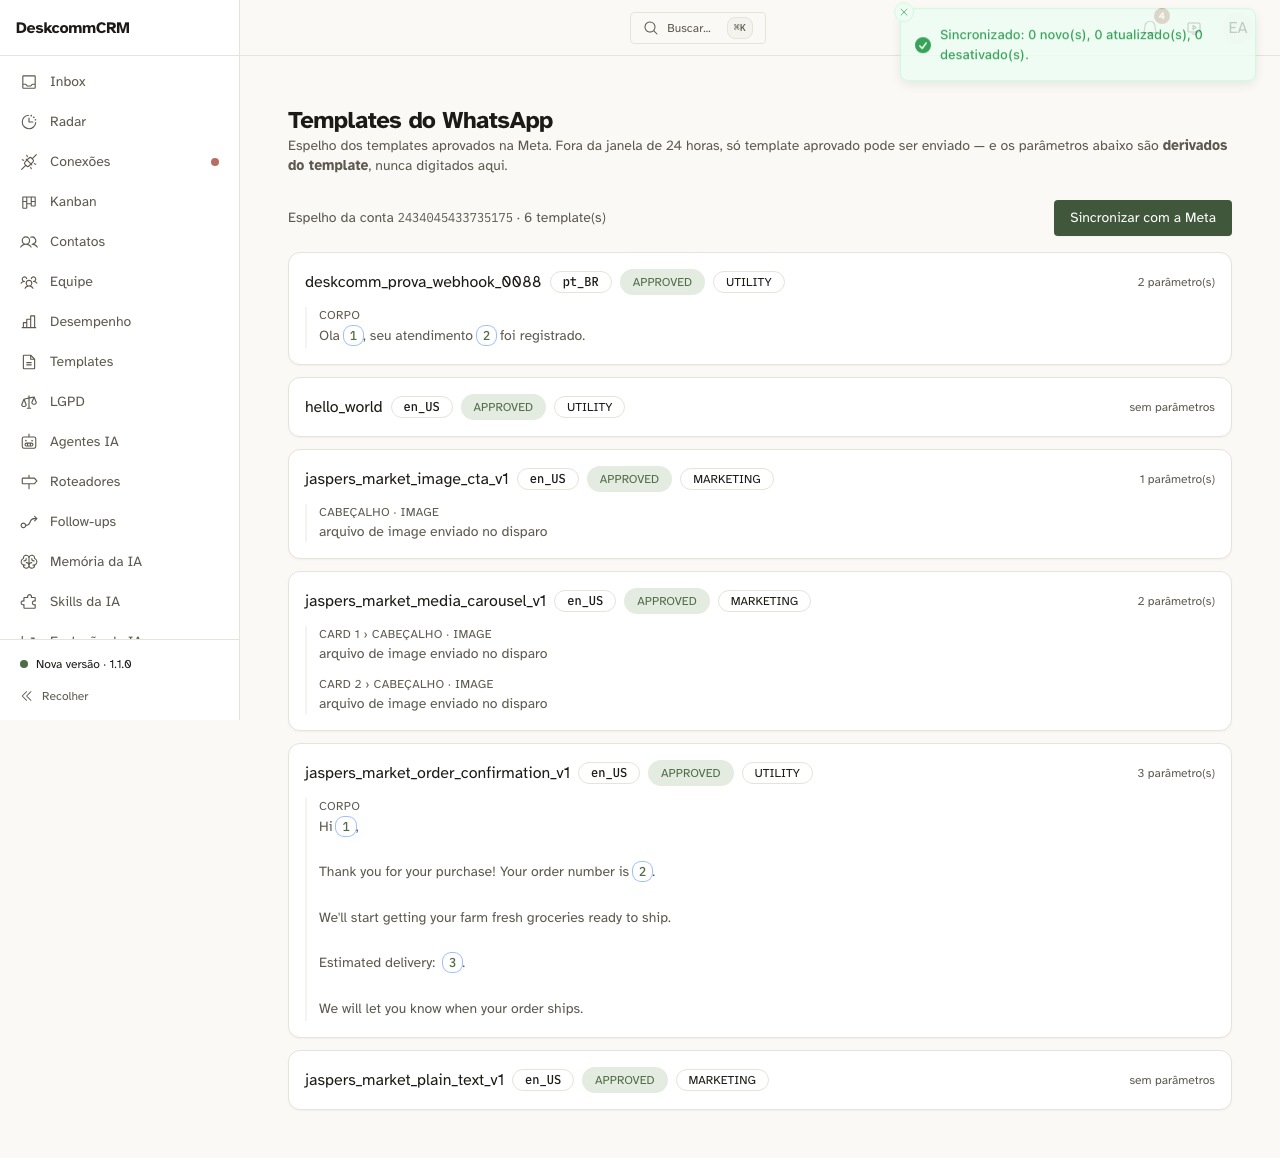
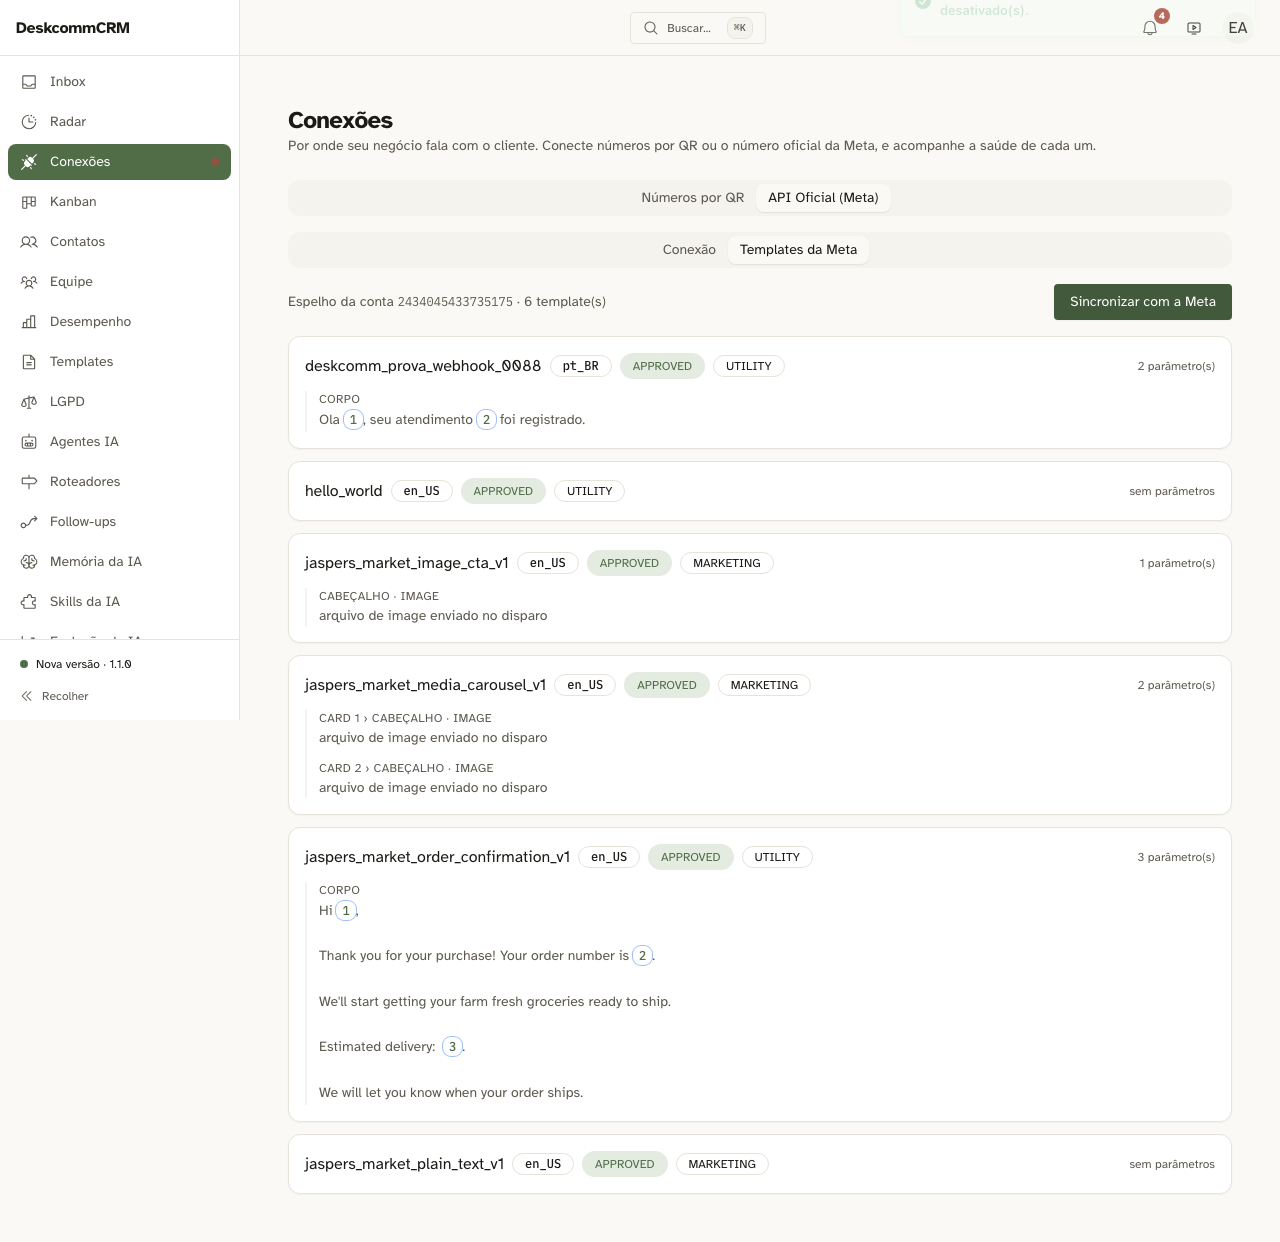
fix(conexoes): o merge ressuscitou os cards antigos — tres destinos de novo
O merge da main juntou os dois lados de app/app/settings/page.tsx SEM conflito
textual: ficou o meu card-ponte MAIS os dois antigos que o PR #86 devolveu.
Convergencia independente vira duplicata em silencio; quem pegou foi a jornada
("o card leva ao MESMO lugar, nao a um segundo"), nao o tsc nem o lint.

E as duas jornadas antigas acompanham a mudanca de lugar em vez de fossilizar
o caminho anterior:
- canal-oficial: chega pela aba de Conexoes, nao pelo card de Configuracoes
- templates-screen: chega pela sub-aba do canal oficial

O caminho velho nao ficou sem cobertura — conexoes-abas.spec.ts prova os dois
redirects e o card-ponte.

Jornadas 15/15 · typecheck 0 · unit 1695/1695 · lint 169 (o +1 novo e de
AntiBanSheet.tsx, da main: zero commits meus no arquivo)

Claude-Session: https://claude.ai/code/session_01671t6LhFTTonLgwL47wBy3

diff --git a/tests/journeys/canal-oficial.spec.ts b/tests/journeys/canal-oficial.spec.ts
@@ -34,20 +34,22 @@ const REAL = {
 
 test.describe.configure({ mode: "serial" });
 
-test("o admin chega ao canal oficial pelo hub de configurações", async ({ page }) => {
-  await page.goto("/app/settings");
+test("o admin chega ao canal oficial pela área de Conexões", async ({ page }) => {
+  // A tela MUDOU DE LUGAR de propósito (2026-07-31): conectar canal — por QR ou
+  // oficial — vive em Conexões, e não mais espalhado em Configurações. Este caso
+  // acompanha a decisão em vez de fossilizar o caminho antigo; o redirect da rota
+  // velha e o card-ponte do hub são cobertos por `conexoes-abas.spec.ts`.
+  await page.goto("/app/connections");
 
-  // Foto ANTES da asserção: quando o card não aparece, o artefato de erro do
+  // Foto ANTES da asserção: quando a aba não aparece, o artefato de erro do
   // Playwright nem sempre traz o snapshot, e ler evidência indireta me levou a
   // três diagnósticos errados seguidos.
   await page.waitForLoadState("networkidle");
   await page.screenshot({ path: `${EVIDENCE}/00-hub-antes-da-assercao.png`, fullPage: true });
 
-  const card = page.getByRole("link", { name: /Canal oficial/i });
-  await expect(card).toBeVisible();
-  await card.click();
+  await page.getByRole("tab", { name: /API Oficial/i }).click();
 
-  await page.waitForURL(/\/app\/settings\/canal-oficial/, { timeout: 20_000 });
+  await page.waitForURL(/aba=oficial/, { timeout: 20_000 });
   await expect(page.getByTestId("canal-oficial-root")).toBeVisible({ timeout: 20_000 });
   await page.screenshot({ path: `${EVIDENCE}/01-tela-conexao.png`, fullPage: true });
 });
@@ -55,7 +57,7 @@ test("o admin chega ao canal oficial pelo hub de configurações", async ({ page
 test("credencial errada é RECUSADA com o motivo da Meta, e nada é gravado", async ({ page }) => {
   // É o caso que separa "validar" de "aceitar e torcer". Sem ele, o operador acharia
   // que conectou e só entenderia que não na primeira mensagem que não sai.
-  await page.goto("/app/settings/canal-oficial");
+  await page.goto("/app/connections?aba=oficial");
   await expect(page.getByTestId("canal-oficial-root")).toBeVisible({ timeout: 20_000 });
 
   await page.locator("#pnid").fill("000000000000000");
@@ -90,7 +92,7 @@ test("credencial errada é RECUSADA com o motivo da Meta, e nada é gravado", as
 test("credencial real conecta e a tela mostra o que colar na Meta", async ({ page }) => {
   test.skip(!REAL.token, "sem META_SYSTEM_USER_TOKEN no ambiente");
 
-  await page.goto("/app/settings/canal-oficial");
+  await page.goto("/app/connections?aba=oficial");
   await expect(page.getByTestId("canal-oficial-root")).toBeVisible({ timeout: 20_000 });
 
   await page.locator("#pnid").fill(REAL.phoneNumberId);

diff --git a/tests/journeys/templates-screen.spec.ts b/tests/journeys/templates-screen.spec.ts
@@ -30,21 +30,22 @@ fs.mkdirSync(EVIDENCE, { recursive: true });
 
 test.describe.configure({ mode: "serial" });
 
-test("o operador chega aos templates pelo hub de configurações", async ({ page }) => {
-
-  await page.goto("/app/settings");
-  const card = page.getByRole("link", { name: /Templates do WhatsApp/i });
-  await expect(card).toBeVisible();
+test("o operador chega aos templates pela aba do canal oficial", async ({ page }) => {
+  // MUDOU DE LUGAR de propósito (2026-07-31): template só existe por causa do
+  // canal oficial, então vive como sub-aba dele em Conexões — não como tela solta
+  // em Configurações. O redirect da rota antiga é coberto por `conexoes-abas.spec.ts`.
+  await page.goto("/app/connections?aba=oficial");
+  await page.waitForLoadState("networkidle");
   await page.screenshot({ path: `${EVIDENCE}/01-hub-settings.png`, fullPage: true });
 
-  await card.click();
-  await page.waitForURL(/\/app\/settings\/templates/, { timeout: 20_000 });
+  await page.getByRole("tab", { name: /Templates da Meta/i }).click();
+  await page.waitForURL(/sub=templates/, { timeout: 20_000 });
   await expect(page.getByTestId("templates-root")).toBeVisible({ timeout: 20_000 });
   await page.screenshot({ path: `${EVIDENCE}/02-tela-templates.png`, fullPage: true });
 });
 
 test("os parâmetros aparecem derivados, com o contexto como rótulo", async ({ page }) => {
-  await page.goto("/app/settings/templates");
+  await page.goto("/app/connections?aba=oficial&sub=templates");
   await expect(page.getByTestId("templates-root")).toBeVisible({ timeout: 20_000 });
 
   const cards = page.getByTestId("template-card");
@@ -72,7 +73,7 @@ test("os parâmetros aparecem derivados, com o contexto como rótulo", async ({ 
 });
 
 test("o botão Sincronizar fala com a Graph API de verdade", async ({ page }) => {
-  await page.goto("/app/settings/templates");
+  await page.goto("/app/connections?aba=oficial&sub=templates");
 
   const botao = page.getByTestId("btn-sync");
   await expect(botao).toBeEnabled({ timeout: 20_000 });

diff --git a/app/app/settings/page.tsx b/app/app/settings/page.tsx
@@ -55,18 +55,6 @@ const LINKS: SettingsLink[] = [
     adminOnly: true,
   },
   {
-    href: "/app/settings/canal-oficial",
-    title: "Canal oficial (Cloud API)",
-    description: "Conectar o número oficial da Meta e o webhook.",
-    adminOnly: true,
-  },
-  {
-    href: "/app/settings/templates",
-    title: "Templates do WhatsApp",
-    description: "Espelho dos templates da Meta e seus parâmetros.",
-    adminOnly: true,
-  },
-  {
     href: "/app/connections",
     title: "Conexões WhatsApp",
     description: "Saúde, reconexão e novos números.",
